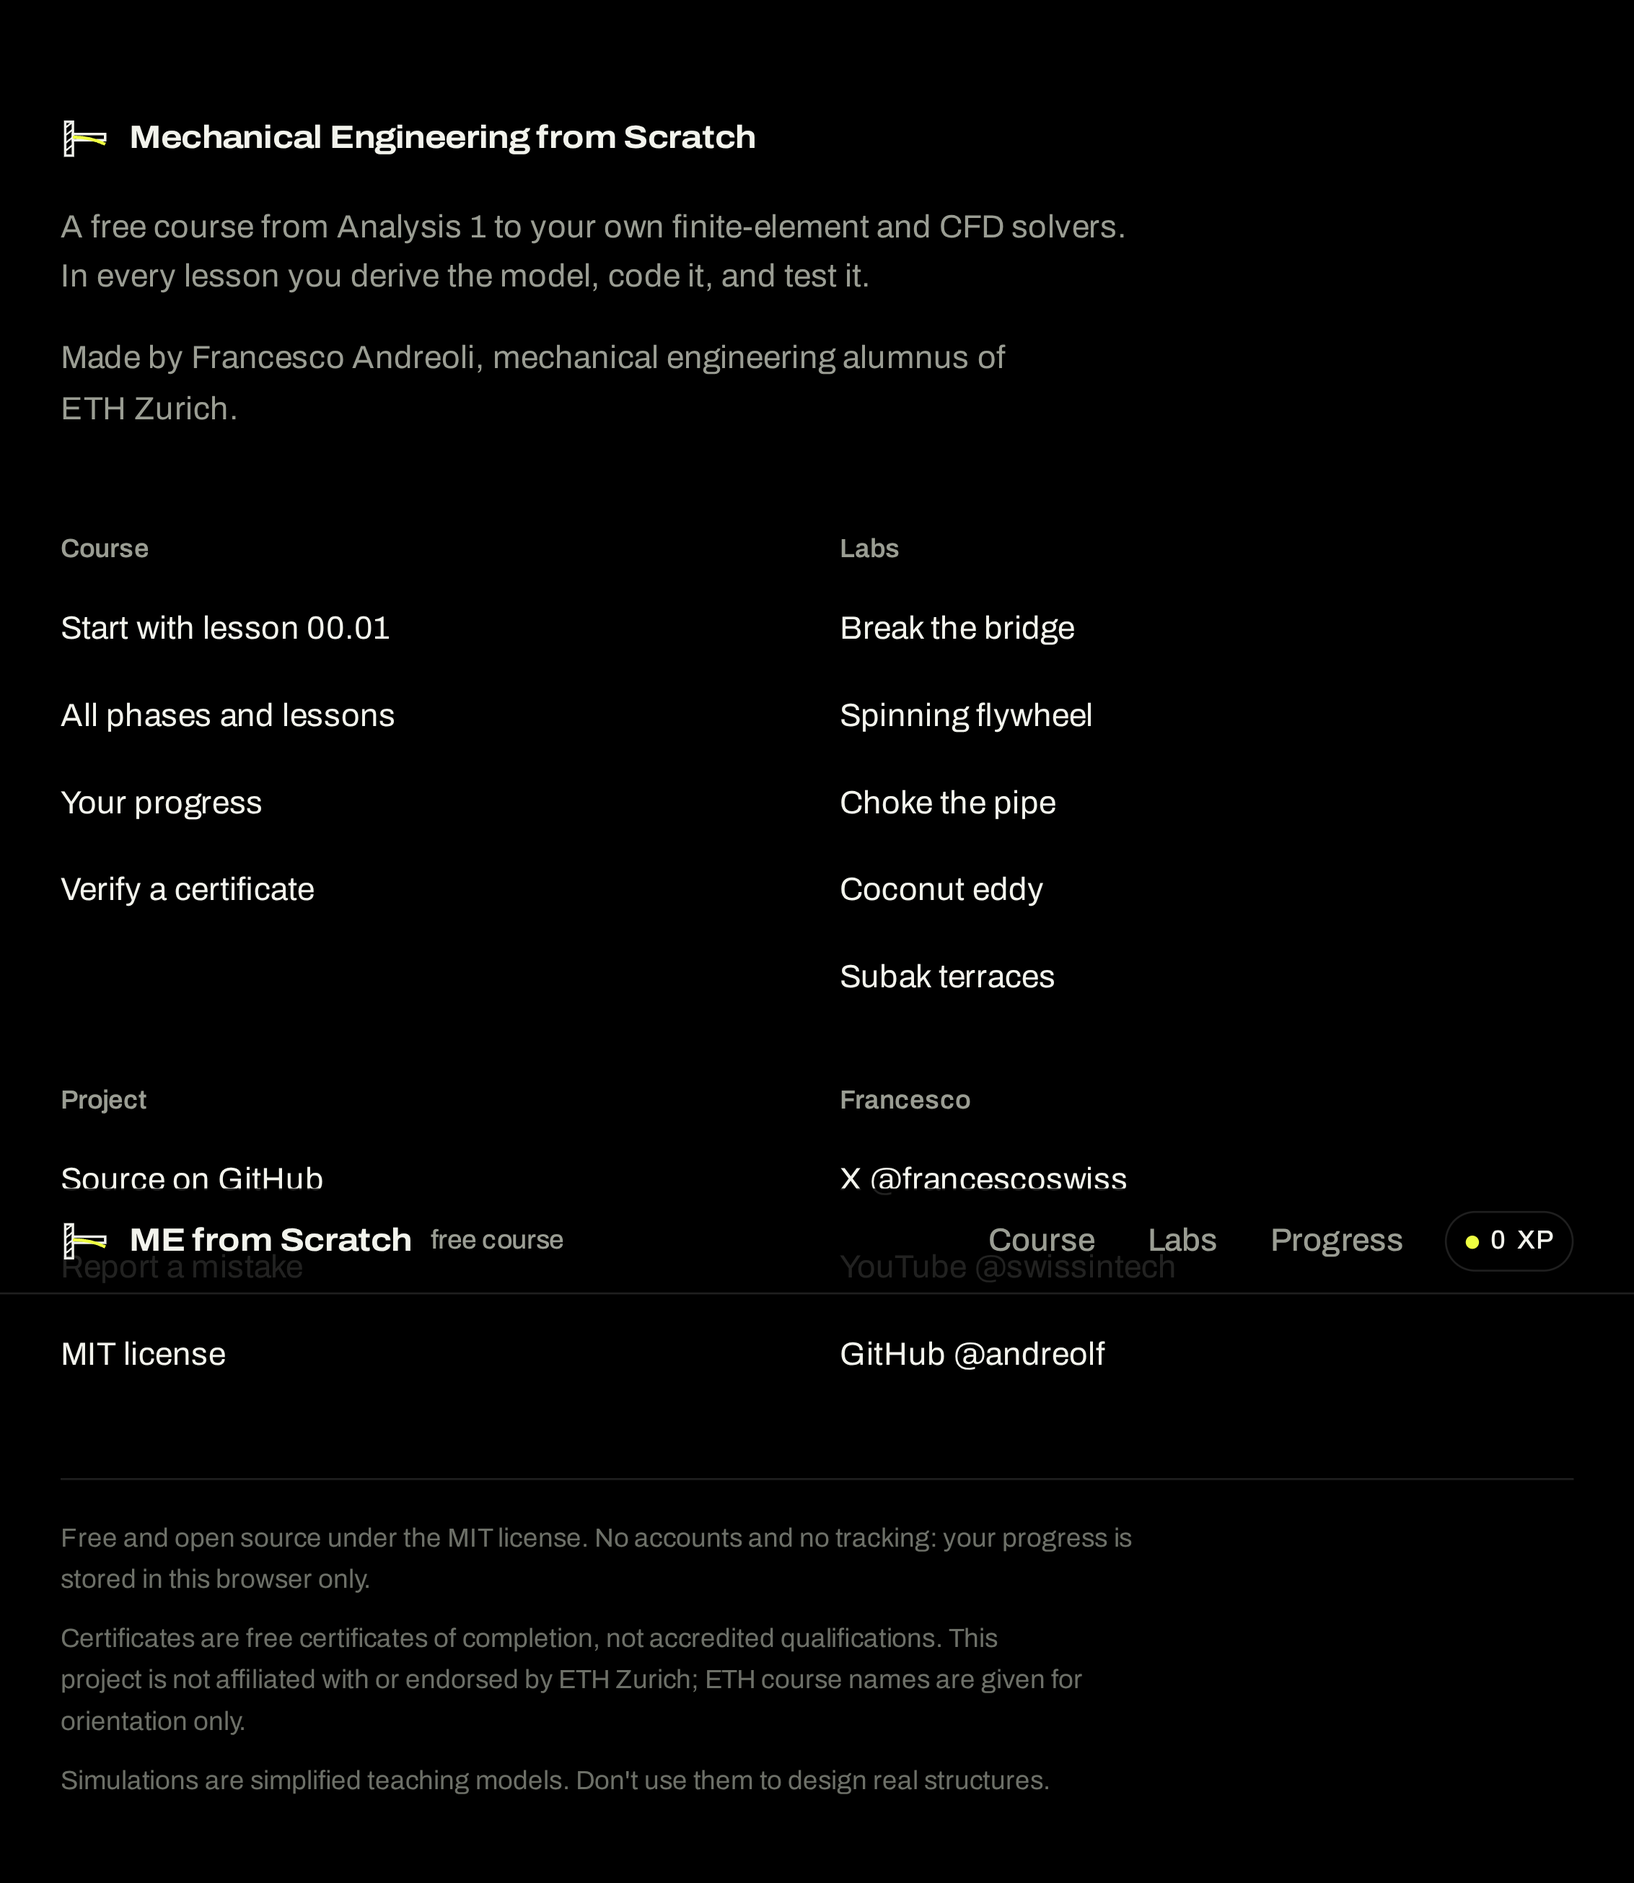
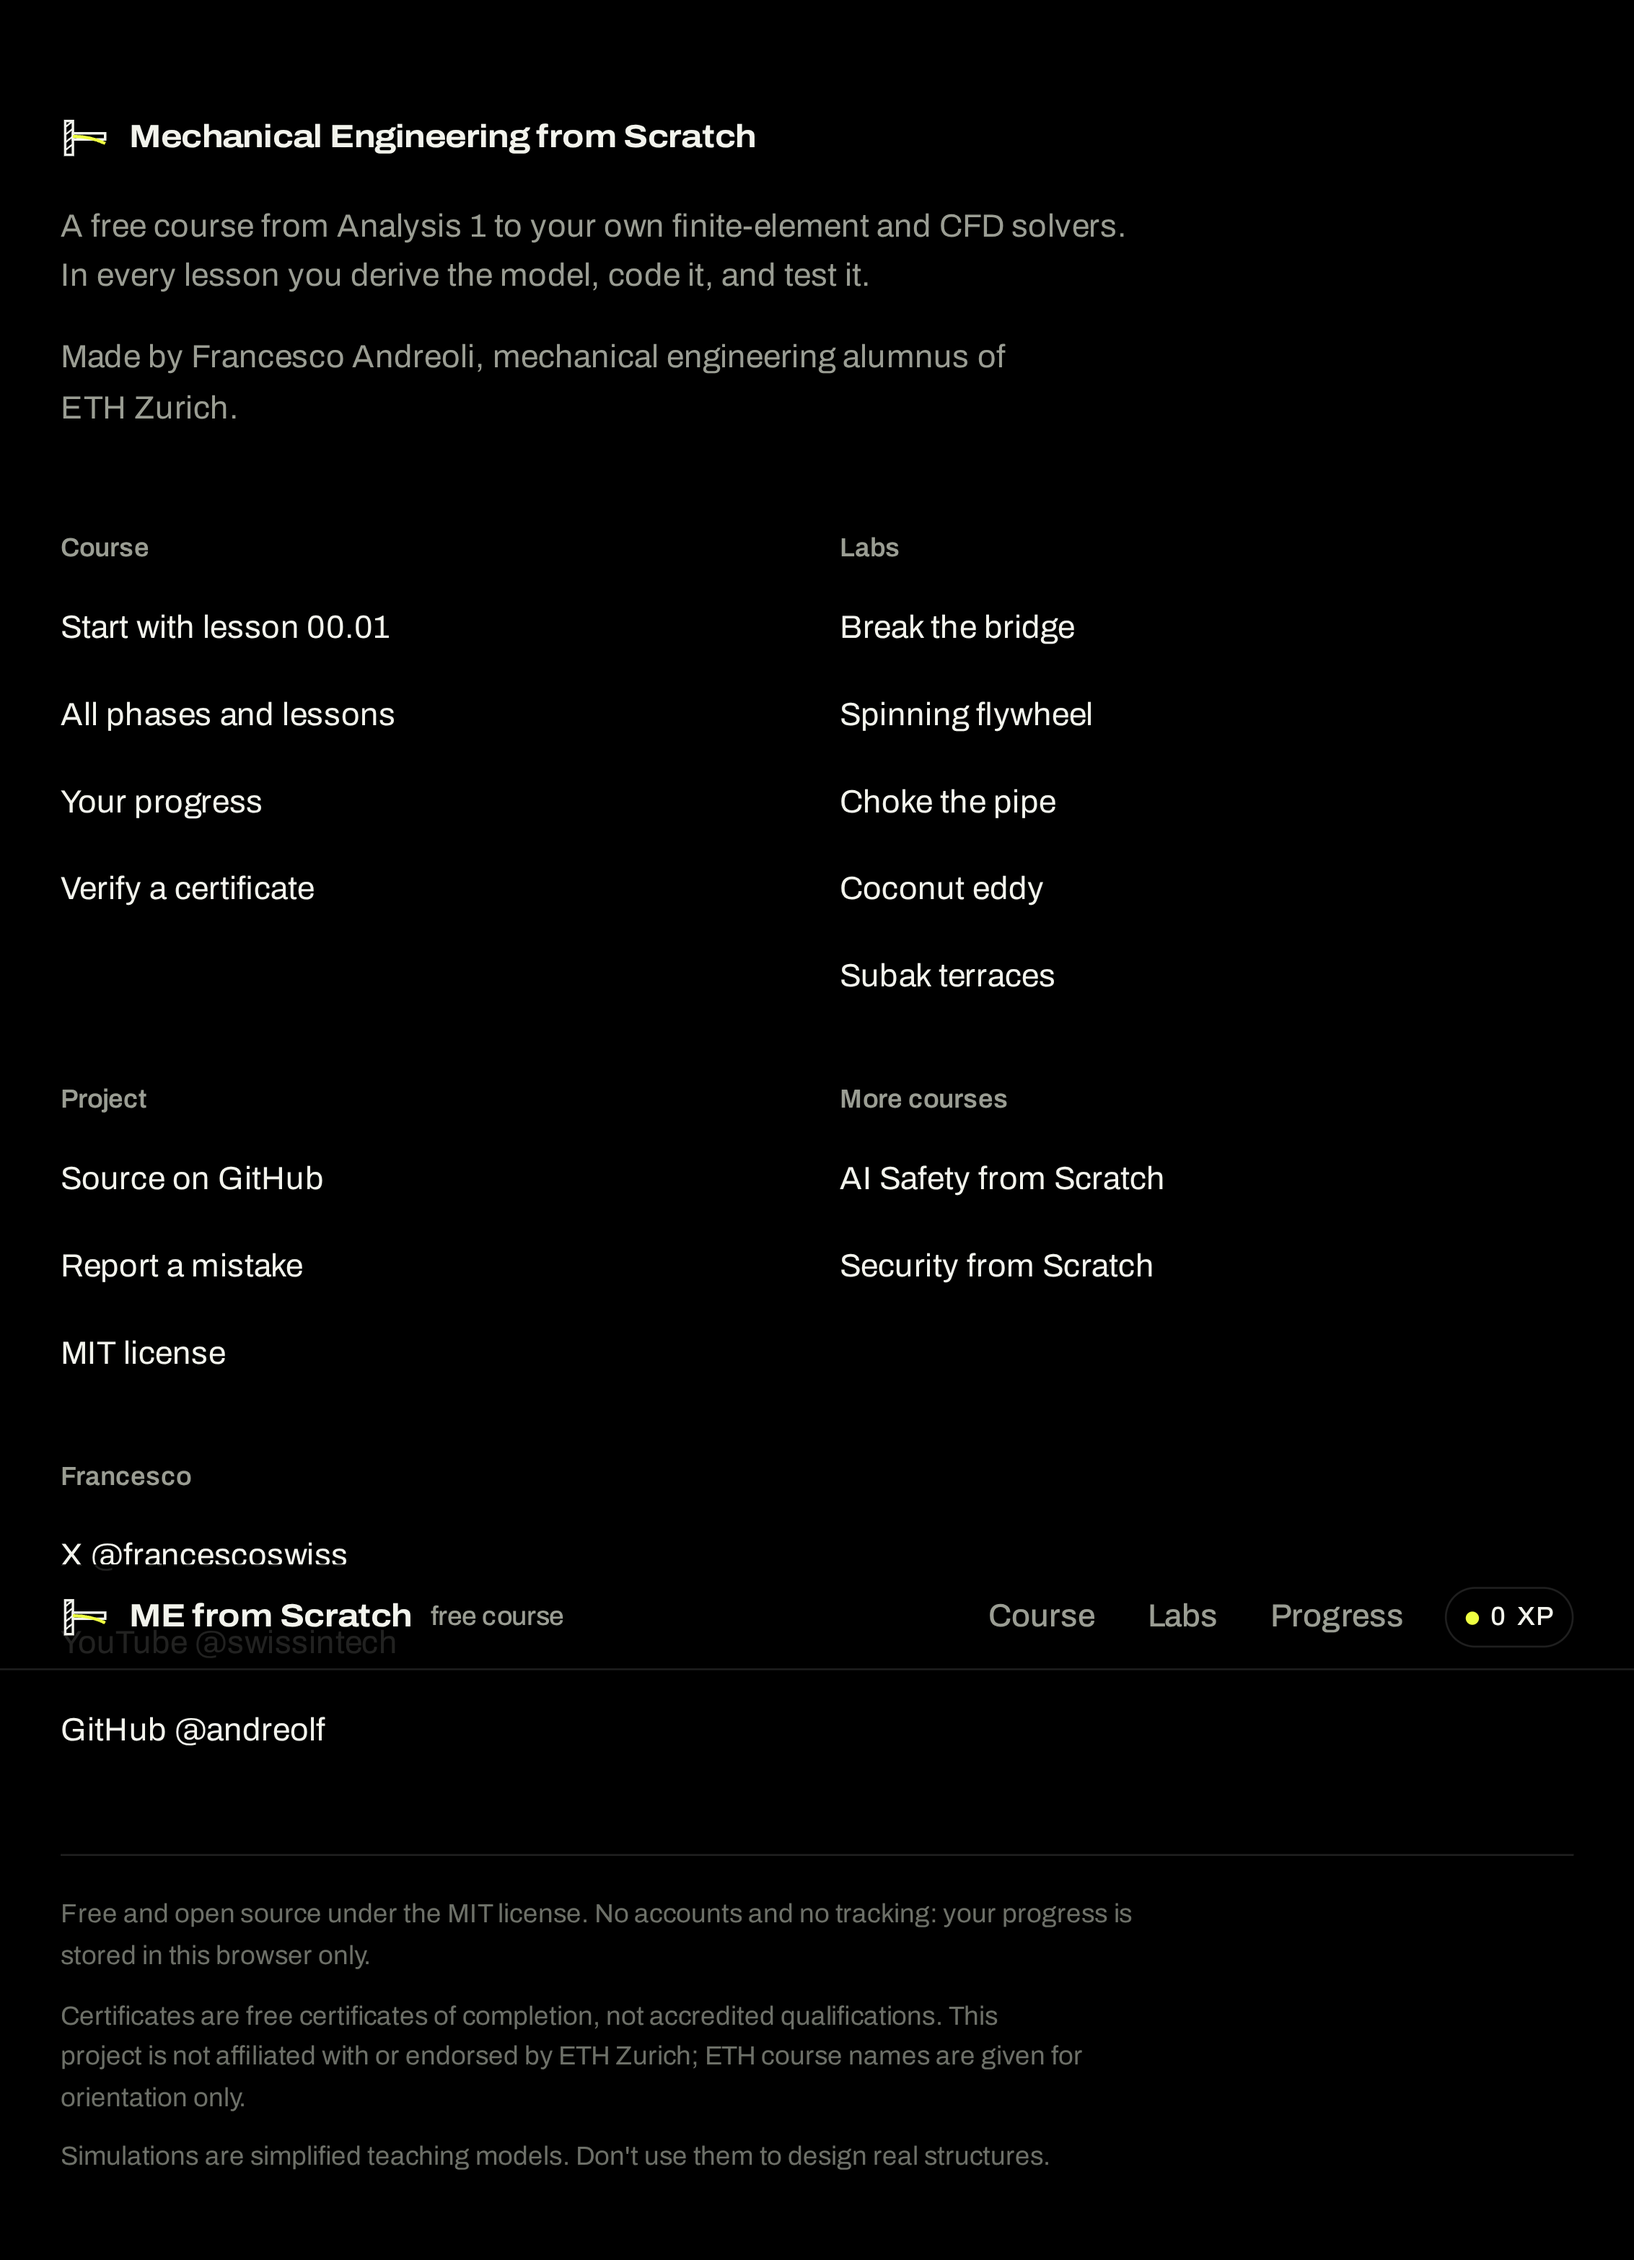
Footer: More courses column (AI Safety from Scratch, Security from Scratch); test; footer screenshots

diff --git a/site/src/chrome.js b/site/src/chrome.js
@@ -52,6 +52,9 @@ export function renderFooter(page) {
         <li><a href="${REPO}" rel="noopener">Source on GitHub</a></li>
         <li><a href="${REPO}/issues" rel="noopener">Report a mistake</a></li>
         <li><a href="${REPO}/blob/main/LICENSE" rel="noopener">MIT license</a></li></ul></div>
+      <div data-testid="more-courses"><h2>More courses</h2><ul>
+        <li><a href="https://andreolf.github.io/ai-safety-from-scratch/" rel="noopener">AI Safety from Scratch</a></li>
+        <li><a href="https://andreolf.github.io/security-from-scratch/" rel="noopener">Security from Scratch</a></li></ul></div>
       <div><h2>Francesco</h2><ul>
         <li><a href="https://x.com/francescoswiss" rel="noopener">X @francescoswiss</a></li>
         <li><a href="https://www.youtube.com/@swissintech" rel="noopener">YouTube @swissintech</a></li>

diff --git a/site/tests/home.spec.js b/site/tests/home.spec.js
@@ -179,6 +179,9 @@ test.describe('Home page', () => {
     await footer.scrollIntoViewIfNeeded();
     await expect(footer).toContainText('not affiliated with or endorsed by ETH Zurich');
     await expect(footer.getByRole('link', { name: /GitHub/ }).first()).toHaveAttribute('href', /github\.com\/andreolf/);
+    const more = footer.getByTestId('more-courses');
+    await expect(more.getByRole('link', { name: 'AI Safety from Scratch' })).toHaveAttribute('href', 'https://andreolf.github.io/ai-safety-from-scratch/');
+    await expect(more.getByRole('link', { name: 'Security from Scratch' })).toHaveAttribute('href', 'https://andreolf.github.io/security-from-scratch/');
     if (isTouch(info)) {
       const small = await smallTargets(page, '#site-footer');
       expect(small, small.join('\n')).toEqual([]);

diff --git a/site/src/styles/base.css b/site/src/styles/base.css
@@ -101,7 +101,7 @@ input[type=checkbox], input[type=radio] { accent-color: var(--lime); width: 20px
 .footer-legal { margin-top: 44px; padding-top: 20px; border-top: 1px solid var(--rule); display: grid; gap: 10px; color: var(--dim); font-size: var(--t-1); }
 .footer-legal p { margin: 0; max-width: 72ch; }
 @media (min-width: 900px) {
-  .footer-grid { grid-template-columns: 2fr 1fr 1fr 1fr 1fr; }
+  .footer-grid { grid-template-columns: 2fr repeat(5, 1fr); }
   .footer-about { grid-column: auto; }
 }
 
